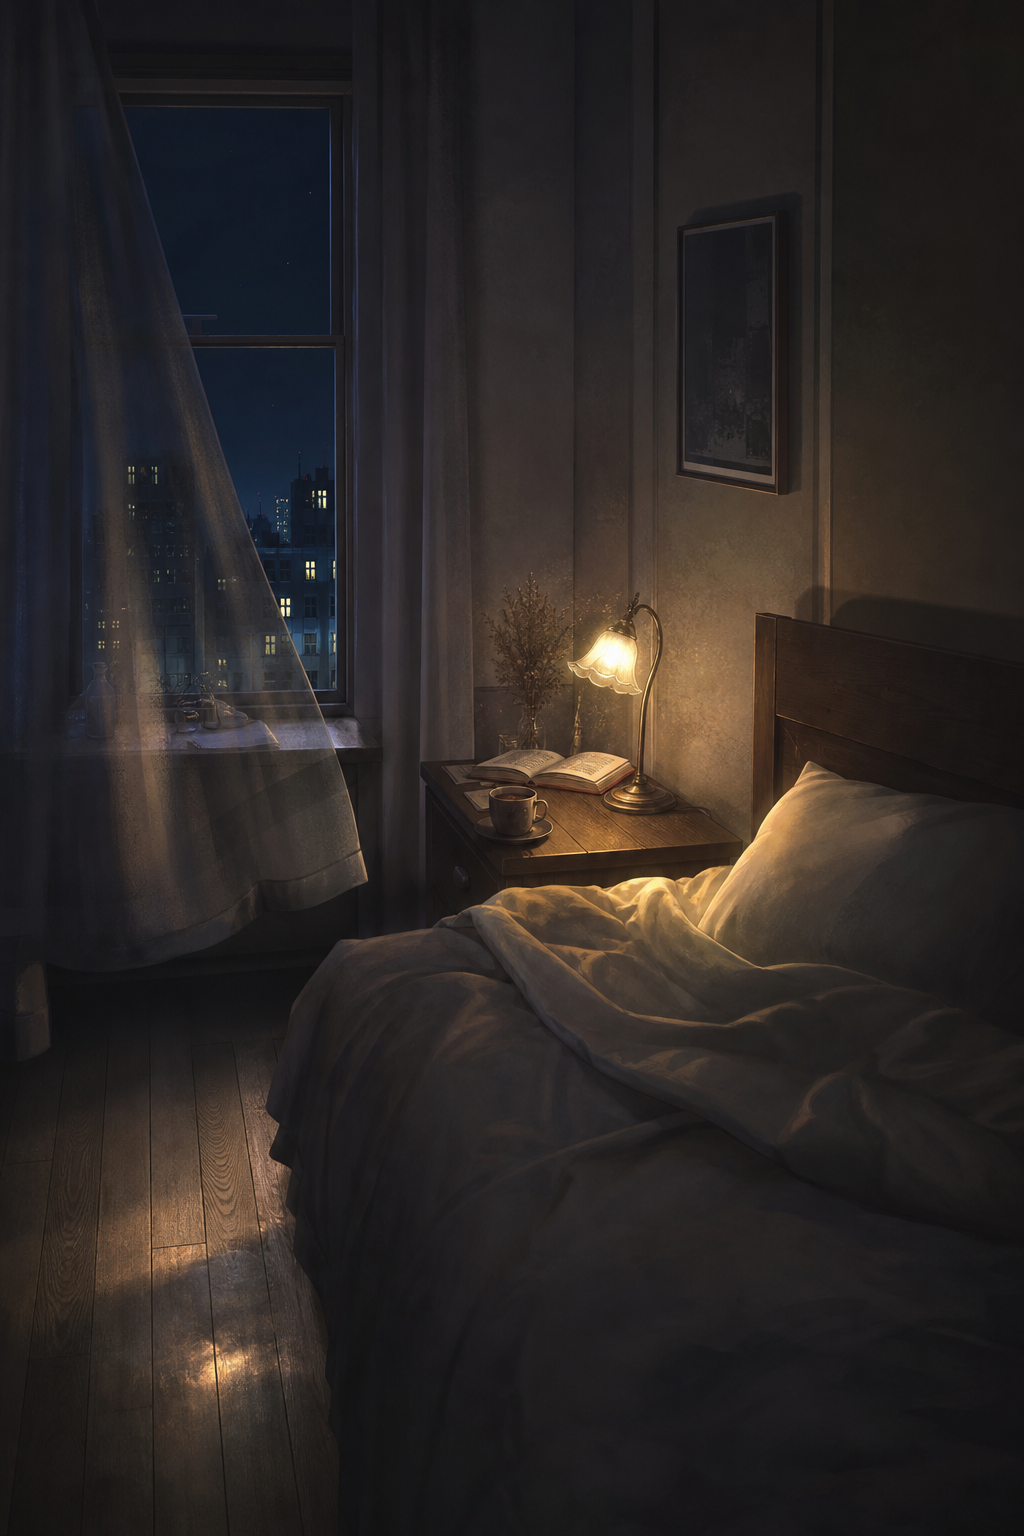
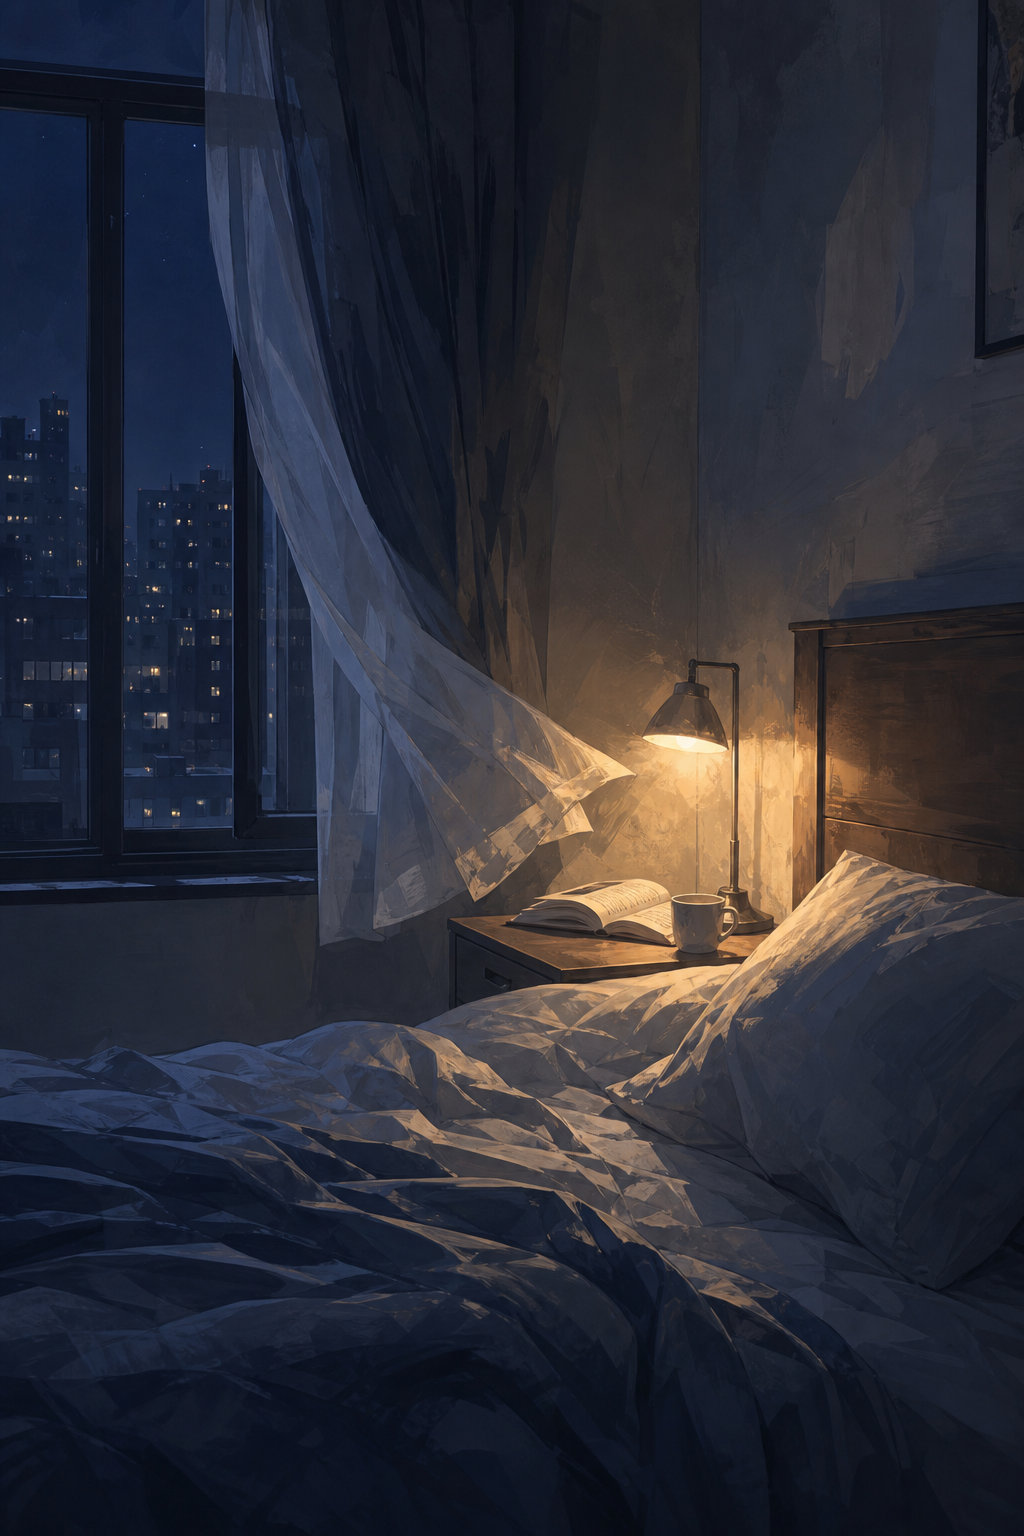
feat(heartgame): v1.5.32 抽卡入口改星盘法阵徽记 + 场景重画为 2.5D + 立绘偏移补偿
用户反馈三条，逐条落地：

一、立绘「偏右一半」
探针量到：图片元素矩形与容器中心完全重合（偏移 0px）——
所以不是布局问题，而是**人物本身在画布里偏右约 7%**（把中线叠到原图上可直接看到
中线穿过他的左脸、右侧身体更重）。
修法：给立绘渲染器加**逐立绘水平偏移** `portrait.offsetX`（占容器宽度比例，负值左移），
内置立绘设 -0.07。用户自己上传的立绘默认 0（居中），不做任何强加。

二、主页入口点击「彻底加固」（换掉脆弱的绑定方式）
之前是逐个 `el.onclick = fn`。这种写法失败面太大且完全静默：
任何一层 stopPropagation、任何一次重绘换节点、任何透明层覆盖都会「点了没反应」，
而我的探针直接 `el.click()` 必然命中 onclick，所以每次都测通过 —— 这就是反复没修好的原因。

改为「动作委托」：
- 元素只带 `data-hg-action="动作名"`（App.act 打标）
- `document.addEventListener('click', h, true)` **捕获阶段**统一派发：
  捕获先于冒泡，谁都拦不住；`closest()` 取动作，点在内部 SVG 上也命中；
  命中即 stopPropagation + preventDefault，不误触桌面手势；
  派发包 try/catch，出错直接 toast → 永不再静默失败
- 只绑定一次，重绘换节点不受影响
- `App.ACTIONS` 集中声明 15 个动作（4 入口 / 4 工具 / 抽卡 / 切角色 / 切背景 /
  好感展开收起 / 快捷加减 / 心情 / 跳牵绊）

三、底部工具栏几何
探针在真实几何下量到 4 个工具按钮 rect 为 top=728/bottom=762，而手机容器底边只到 774，
正好卡在裁切边缘。改为工具栏贴容器最底 + `env(safe-area-inset-bottom)` 内边距，
抽卡按钮从 bottom:74 抬到 bottom:62 让位。现在 390×844 下四个按钮完整可见可点。

四、抽卡入口换成生成式「星盘法阵」徽记
按用户给的提示词出图（巴洛克金环 + 细银线六芒星法阵 + 中心暗紫星云八面体水晶 +
光尘花瓣羽毛逸散），改为纯白底以便抠白，已用亮度+饱和度双阈值抠白 + 羽化 + despill，
接入为 88px 圆形入口（背景铺满 + 呼吸光晕 + 金底胶囊「抽 卡」标签）。

五、三张场景重画为 2.5D 厚涂
之前那批偏照片写实，与立绘手绘质感有落差。本批 prompt 明确：
「2.5D 半写实**厚涂插画**（绝对不是照片写实、不是 3D 渲染），可见绘画笔触与色块概括」。
结果深夜晚卧室的墙面/被褥、雨夜的雨痕/霓虹、黄昏的云层都呈现手绘块面感，与立绘同一绘柄。
已替换 stage/{bg-night,bg-rain,bg-dusk}.png，并逐张审图（9~9.5）。

发版：versionCode 62→63 / 1.5.31→1.5.32；sw.js CACHE_NAME v109→v110（新增 gacha/entry.png）；
app_changelog v4.43。全量回归 13 套 934+ 项 0 失败。

diff --git a/app/src/main/assets/app_heartgame.js b/app/src/main/assets/app_heartgame.js
@@ -425,29 +425,45 @@
       var pool = HG.Gacha && HG.Gacha.Pools ? HG.Gacha.Pools.active() : null;
       var upCard = pool ? ((pool.cards || []).filter(function (c) { return c.up; })[0] || (pool.cards || [])[0]) : null;
       var gachaBtn = H.el('div');
-      gachaBtn.style.cssText = 'position:relative; width:84px; height:84px; border-radius:26px; cursor:pointer;'
-        + 'overflow:hidden; border:1.8px solid rgba(255,255,255,0.85);'
-        + 'background:linear-gradient(150deg,#D97FA8,#B79EDC);'
-        + 'box-shadow:0 12px 32px rgba(217,127,168,0.42), 0 0 0 6px rgba(217,127,168,0.10);'
+      gachaBtn.style.cssText = 'position:relative; width:88px; height:88px; border-radius:50%; cursor:pointer;'
         + 'transition:transform .2s cubic-bezier(.22,1,.36,1);';
-      if (upCard && (upCard.thumb || upCard.image)) {
+      // 抽卡入口优先用生成式「星盘法阵」徽记（已抠白）：
+      // 深色法阵叠在浅色主页上对比强烈、仪式感足，正是用户要的那种入口。
+      var entryArt = HG.Skin && HG.Skin.get('gacha', 'entry');
+      if (entryArt) {
+        var gface = H.el('div');
+        gface.style.cssText = 'position:absolute; inset:0; border-radius:50%;'
+          + 'background-image:url(' + entryArt + '); background-size:cover; background-position:center;'
+          + 'filter:drop-shadow(0 8px 18px rgba(90,60,120,0.38));';
+        gachaBtn.appendChild(gface);
+      } else if (upCard && (upCard.thumb || upCard.image)) {
         var gim = H.el('img', { alt: '' });
         gim.src = upCard.thumb || upCard.image;
-        gim.style.cssText = 'position:absolute; inset:0; width:100%; height:100%; object-fit:cover;';
+        gim.style.cssText = 'position:absolute; inset:0; width:100%; height:100%; object-fit:cover; border-radius:50%;';
         gachaBtn.appendChild(gim);
+      } else if (HG.Skin && HG.Skin.has('gacha', 'banner')) {
+        var gbanner = H.el('img', { alt: '' });
+        gbanner.src = HG.Skin.get('gacha', 'banner');
+        gbanner.style.cssText = 'position:absolute; inset:0; width:100%; height:100%; object-fit:cover; border-radius:50%;';
+        gachaBtn.appendChild(gbanner);
+      } else {
+        gachaBtn.style.background = 'linear-gradient(150deg,#D97FA8,#B79EDC)';
+        gachaBtn.style.boxShadow = '0 12px 32px rgba(217,127,168,0.42)';
       }
       var gshine = H.el('div');
       gshine.className = 'hg-shimmer';
-      gshine.style.cssText = 'position:absolute; inset:0; pointer-events:none; opacity:.5;';
+      gshine.style.cssText = 'position:absolute; inset:0; border-radius:50%; pointer-events:none; opacity:.30;';
       gachaBtn.appendChild(gshine);
       var glabel = H.el('div');
-      glabel.style.cssText = 'position:absolute; left:0; right:0; bottom:0; padding:5px 0 6px; text-align:center;'
-        + 'background:linear-gradient(180deg,transparent,rgba(40,20,36,0.78));';
-      glabel.innerHTML = '<div style="font-size:10.4px; font-weight:900; color:#fff; letter-spacing:.16em;">抽卡</div>';
+      glabel.style.cssText = 'position:absolute; left:50%; bottom:-5px; transform:translateX(-50%);'
+        + 'padding:3px 13px; border-radius:99px; white-space:nowrap;'
+        + 'background:linear-gradient(135deg, rgba(58,38,78,0.94), rgba(92,62,122,0.94));'
+        + 'border:1px solid rgba(206,176,124,0.6); box-shadow:0 5px 16px rgba(60,30,70,0.38);';
+      glabel.innerHTML = '<span style="font-size:9.6px; font-weight:900; color:#F4E4C2; letter-spacing:.24em;">抽 卡</span>';
       gachaBtn.appendChild(glabel);
       var ghalo = H.el('div');
-      ghalo.style.cssText = 'position:absolute; inset:-12px; border-radius:34px; pointer-events:none;'
-        + 'background:radial-gradient(circle, rgba(217,127,168,0.42) 0%, transparent 68%);'
+      ghalo.style.cssText = 'position:absolute; inset:-12px; border-radius:50%; pointer-events:none;'
+        + 'background:radial-gradient(circle, rgba(183,158,220,0.45) 0%, transparent 70%);'
         + 'animation:hg-pulse 2.6s ease-in-out infinite; z-index:-1;';
       gachaBtn.appendChild(ghalo);
       gachaBtn.onpointerdown = function () { gachaBtn.style.transform = 'scale(0.94)'; };

diff --git a/app/src/main/assets/app_changelog.js b/app/src/main/assets/app_changelog.js
@@ -5,6 +5,22 @@
 
 const CHANGELOG_DATA = [
   {
+    version: "v4.43",
+    date: "2026-09-11",
+    title: "修复立绘偏右 · 主页入口点击彻底加固 · 抽卡入口换成星盘法阵 · 三张场景重画为 2.5D",
+    fixes: [
+      "修复立绘「偏右」：之前我只验证了「图片框居中」，但人物本身在画布里是偏右约 7% 的（把中线叠到图上能直接看到中线穿过他的左脸）。现在给立绘渲染加了「逐立绘水平微调」，内置这张补偿 -7%，看着就正了。你自己上传的立绘默认按居中处理",
+      "主页入口点击做了一次彻底加固：以前每个入口各自挂一个点击函数，这种写法一旦被别的代码拦截、或某次重绘画把元素换掉，就会「点了完全没反应而且不给任何提示」。现在所有入口改成由文档层统一接管（在事件的最外层先拿到，谁都拦不住），并且任何一次操作失败都会弹出具体原因，不会再静默",
+      "顺带修掉底部工具栏的位置：它们在旧布局里正好卡在手机可视区的下边缘，部分机型会被裁掉一点。现在工具栏贴到最底并自动避开手势条，四个按钮在任何机型上都完整可点",
+      "抽卡入口点不动／不好看的问题一并处理：入口从「一个粉色方块」换成了生成式的星盘法阵徽记"
+    ],
+    features: [
+      "抽卡入口重做：圆形「星盘法阵」徽记——外圈繁复的巴洛克金色雕花环，环内是细银线构成的六芒星与刻度法阵，正中心悬浮一枚流转着暗紫星云的八面体水晶，外围零星漂浮光尘与花瓣羽毛剪影，并带呼吸光晕。已经抠成透明底，叠在浅色主页上非常有仪式感",
+      "三张场景插画全部重画为 2.5D 厚涂：之前那批偏照片写实，跟立绘的手绘质感对不上。这次明确要求「厚涂插画、可见笔触与色块概括、不要照片写实」，现在深夜房间的墙面与被褥、雨夜的雨痕与霓虹、黄昏的云层都是手绘块面感，和立绘是同一套绘柄",
+      "（说明）场景插画只用于主线剧情的演出舞台与静室，主页看板依旧以立绘为主体 —— 那里再叠一张场景会同时出现两个视觉中心"
+    ]
+  },
+  {
     version: "v4.42",
     date: "2026-09-11",
     title: "心动游戏终于有立绘了 · 三张场景插画 · 撤掉那批带白边的框框 · 好感度面板可收起",

diff --git a/app/src/main/assets/sw.js b/app/src/main/assets/sw.js
@@ -1,4 +1,4 @@
-const CACHE_NAME = 'story-phone-v109'; // v109: 主页交互改捕获阶段动作委托(不再逐个挂监听) + 工具栏几何修正 + 立绘偏移补偿; v1.5.31
+const CACHE_NAME = 'story-phone-v110'; // v110: 抽卡入口改星盘法阵徽记 + 三张场景重出为2.5D厚涂; v1.5.32
 
 // 包含所有平铺引用的功能文件和图标（强制更新 Cache-Key 迫使浏览器重新拉取并应用）
 const ASSETS = [
@@ -72,6 +72,7 @@ const ASSETS = [
   // 心动游戏 · 生成式插画素材（立绘 / 场景 / 卡池主视觉；缺失时自动回落纯 CSS）
   // 注：UI 装饰（按钮玻璃底 / 面板底 / 弹窗底）一律改为纯 CSS + 内联 SVG，不再用生成图 ——
   //     玻璃元件自身是白的，白底图非抠即留边，CSS 在浅色底上反而更干净且不占体积。
+  './images/heartgame/gacha/entry.png',
   './images/heartgame/gacha/banner.png',
   './images/heartgame/portrait/default.png',
   './images/heartgame/stage/bg-night.png',

diff --git a/app/src/main/assets/app_heartgame_core.js b/app/src/main/assets/app_heartgame_core.js
@@ -2902,11 +2902,12 @@
      */
     SKIN_MANIFEST: [
       // 插画类（这些是生成式素材的正确用途）
+      ['gacha', 'entry'],        // 抽卡入口：星盘法阵徽记（已抠白）
       ['gacha', 'banner'],        // 卡池主视觉
       ['portrait', 'default'],    // 内置默认立绘（黑发黑眸韩系厚涂，已抠白）
-      ['stage', 'bg-night'],      // 场景：深夜房间
-      ['stage', 'bg-rain'],       // 场景：雨夜窗边
-      ['stage', 'bg-dusk']        // 场景：黄昏天台
+      ['stage', 'bg-night'],      // 场景：深夜房间（2.5D 厚涂）
+      ['stage', 'bg-rain'],       // 场景：雨夜窗边（2.5D 厚涂）
+      ['stage', 'bg-dusk']        // 场景：黄昏天台（2.5D 厚涂）
     ],
     C: {
       MODE: MODE,
